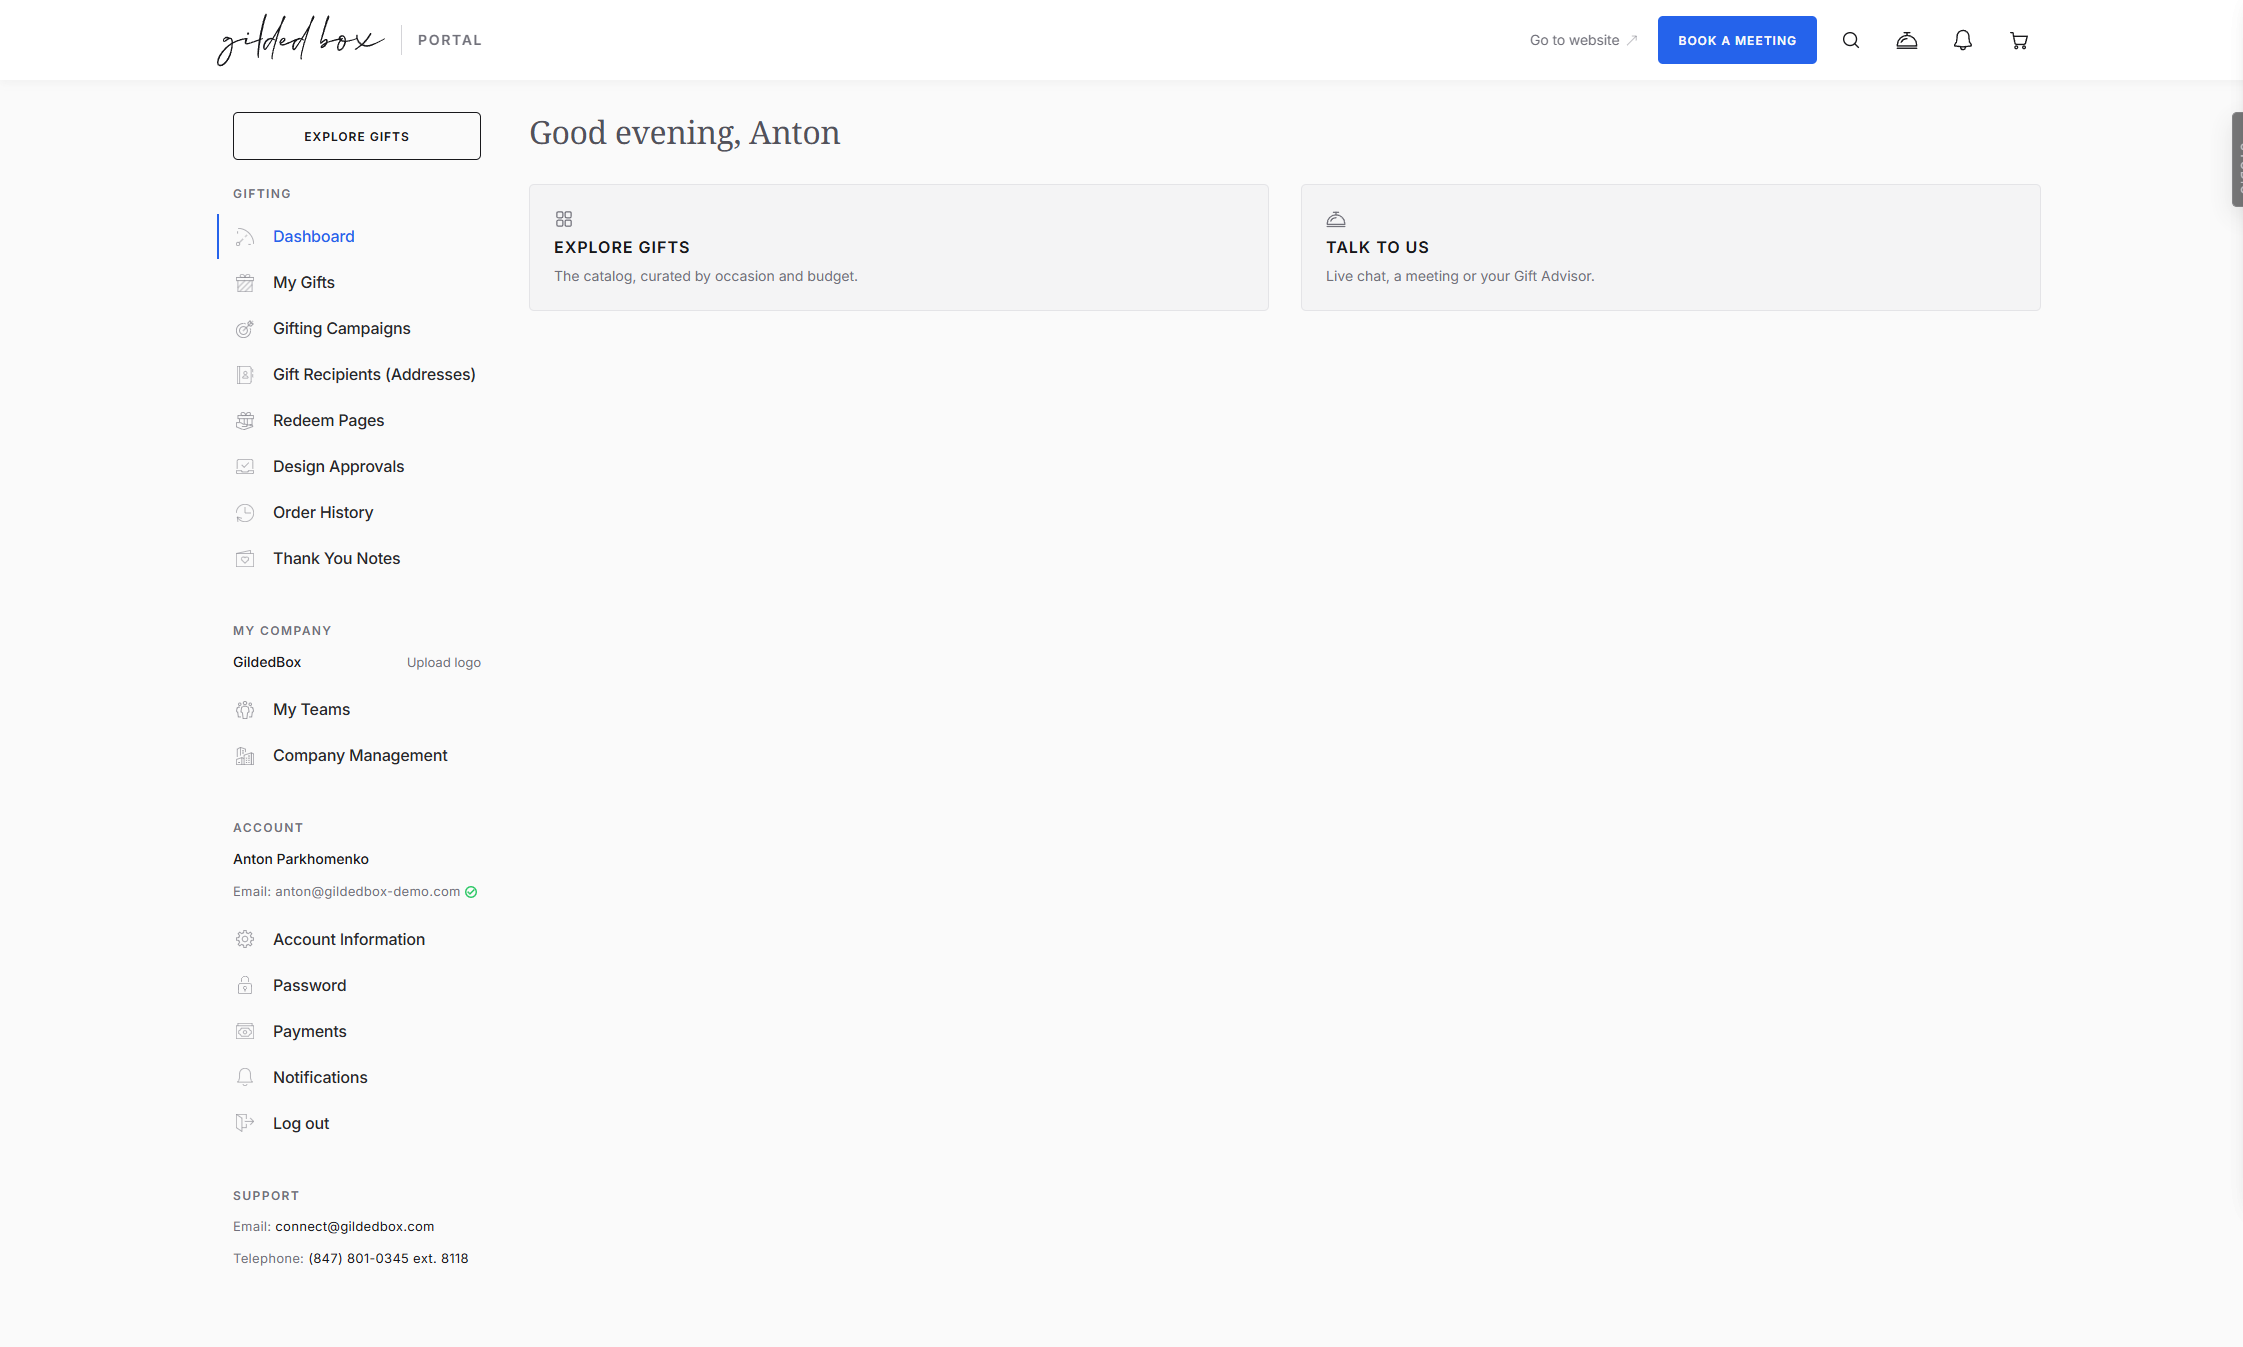
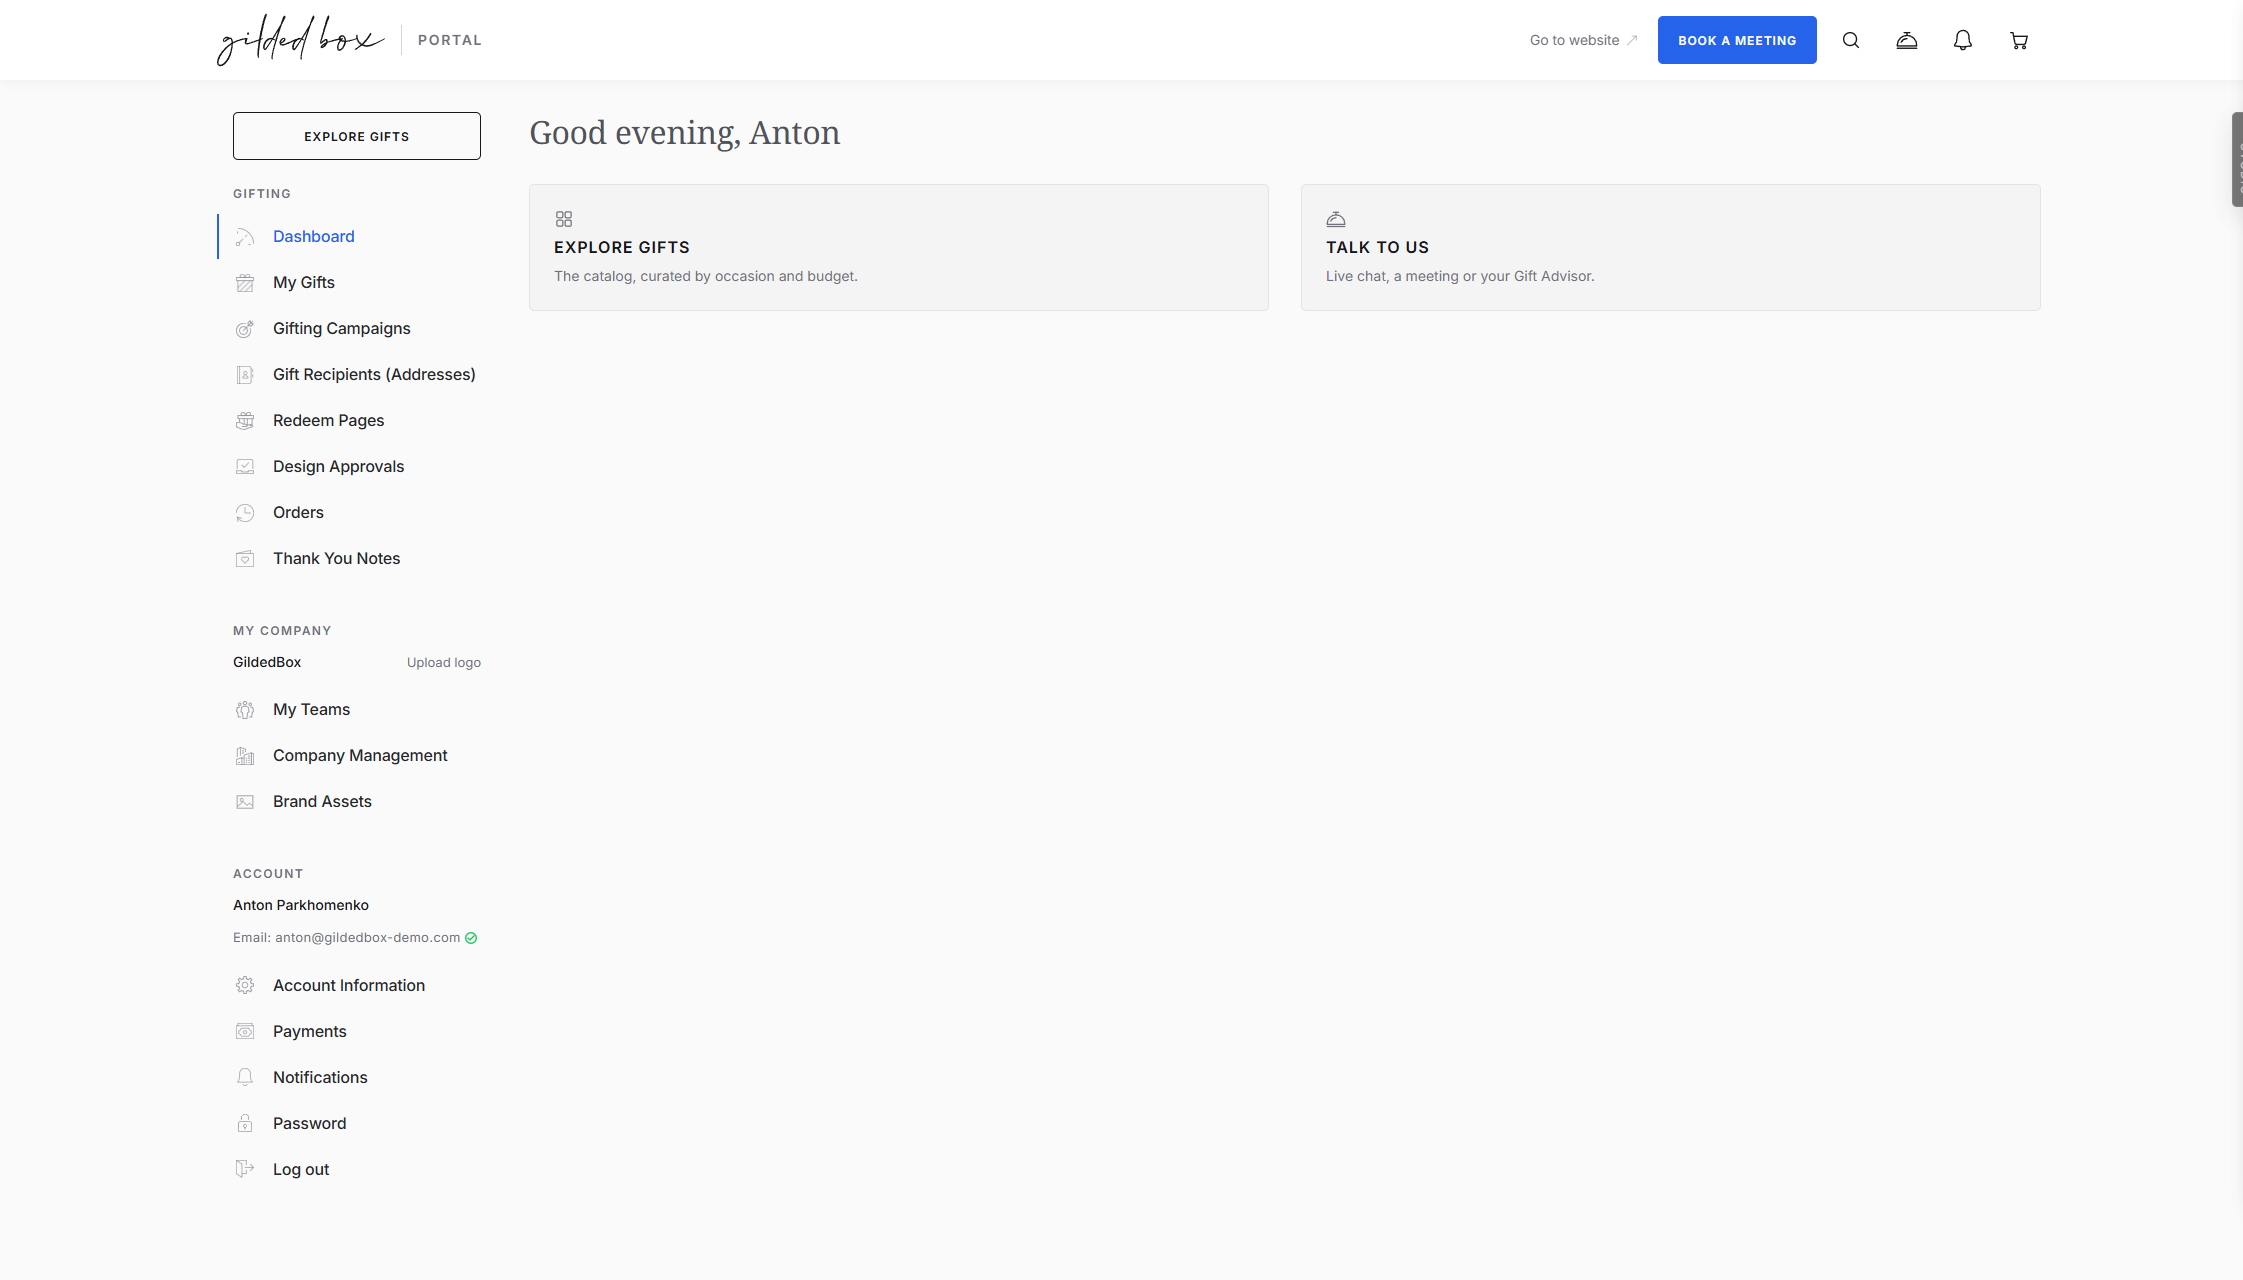
feat(portal): the rail takes its approved shape, and help moves into the widget
The structure Ton signed off, built to the letter.

Explore gifts stays the button at the head. GIFTING: Dashboard, My
Gifts, Gifting Campaigns, Gift Recipients (Addresses), Redeem Pages,
Design Approvals, Orders, Thank You Notes — Orders, not Order
History, and the name is checked against the list on the running
page rather than in the source. MY COMPANY: the company profile with
its Upload logo row, My Teams, Company Management, Brand Assets.
ACCOUNT: the identity, Account Information, Payments, Notifications,
Password, Log out — Payments is personal by his decision, the card
belongs to the person who pays with it.

SUPPORT IS GONE, the group and the footer both: «всё уходит в
виджет». Help lives in the concierge now, reachable from the cloche
in the bar and from the Talk to us door of the Activity block, both
of which open the same drawer with live chat, a meeting and the Gift
Advisor in it. A rail that also printed an address and a phone
number would be a third place to ask for help and the least useful
of the three.

diff --git a/live/portal-dashboard.html b/live/portal-dashboard.html
@@ -1648,7 +1648,7 @@ html[data-gbppd-state="empty"] .gbppd-filled { display: none; }
           <a class="snav-item" href="portal.html"><span class="snav-icon"><img src="../system/icons/address-book.svg" alt=""></span><span class="snav-label">Gift Recipients (Addresses)</span></a>
           <a class="snav-item" href="portal.html"><span class="snav-icon"><img src="../system/icons/gift-exchange.svg" alt=""></span><span class="snav-label">Redeem Pages</span></a>
           <a class="snav-item" href="portal.html"><span class="snav-icon"><img src="../system/icons/laptop-check.svg" alt=""></span><span class="snav-label">Design Approvals</span></a>
-          <a class="snav-item" href="portal.html"><span class="snav-icon"><img src="../system/icons/time-machine.svg" alt=""></span><span class="snav-label">Order History</span></a>
+          <a class="snav-item" href="portal.html"><span class="snav-icon"><img src="../system/icons/time-machine.svg" alt=""></span><span class="snav-label">Orders</span></a>
           <a class="snav-item" href="portal.html"><span class="snav-icon"><img src="../system/icons/love-card.svg" alt=""></span><span class="snav-label">Thank You Notes</span></a>
           </nav>
         </section>
@@ -1661,6 +1661,7 @@ html[data-gbppd-state="empty"] .gbppd-filled { display: none; }
           <nav class="snav-menu">
           <a class="snav-item" href="portal.html"><span class="snav-icon"><img src="../system/icons/crowd-2.svg" alt=""></span><span class="snav-label">My Teams</span></a>
           <a class="snav-item" href="portal.html"><span class="snav-icon"><img src="../system/icons/office.svg" alt=""></span><span class="snav-label">Company Management</span></a>
+          <a class="snav-item" href="portal.html"><span class="snav-icon"><img src="../system/icons/brand-assets.svg" alt=""></span><span class="snav-label">Brand Assets</span></a>
           </nav>
         </section>
 
@@ -1672,20 +1673,22 @@ html[data-gbppd-state="empty"] .gbppd-filled { display: none; }
           </div>
           <nav class="snav-menu">
           <a class="snav-item" href="portal.html"><span class="snav-icon"><img src="../system/icons/cogwheel.svg" alt=""></span><span class="snav-label">Account Information</span></a>
-          <a class="snav-item" href="portal.html"><span class="snav-icon"><img src="../system/icons/lock.svg" alt=""></span><span class="snav-label">Password</span></a>
+          <!-- PAYMENTS IS PERSONAL (Ton, 10.09): the card belongs to the
+               person who pays with it, not to the company block. -->
           <a class="snav-item" href="portal.html"><span class="snav-icon"><img src="../system/icons/money-13.svg" alt=""></span><span class="snav-label">Payments</span></a>
           <a class="snav-item" href="portal.html"><span class="snav-icon"><img src="../system/icons/alarm.svg" alt=""></span><span class="snav-label">Notifications</span></a>
+          <a class="snav-item" href="portal.html"><span class="snav-icon"><img src="../system/icons/lock.svg" alt=""></span><span class="snav-label">Password</span></a>
           <a class="snav-item" href="portal.html"><span class="snav-icon"><img src="../system/icons/leave.svg" alt=""></span><span class="snav-label">Log out</span></a>
           </nav>
         </section>
 
-        <section class="snav-block">
-          <header class="snav-header"><span class="snav-title">Support</span></header>
-          <div class="snav-info">
-            <div class="snav-row"><span class="snav-key">Email:</span><a class="snav-val" href="mailto:connect@gildedbox.com">connect@gildedbox.com</a></div>
-            <div class="snav-row"><span class="snav-key">Telephone:</span><a class="snav-val" href="tel:+18478010345,8118">(847) 801-0345 ext. 8118</a></div>
-          </div>
-        </section>
+        <!-- SUPPORT IS GONE, GROUP AND FOOTER BOTH (Ton, 10.09: «всё
+             уходит в виджет»). Help lives in the concierge now: the
+             cloche in the bar and the Talk to us door of the Activity
+             block, both of which open the same drawer with live chat,
+             a meeting and the Gift Advisor in it. A rail that also
+             printed an address and a phone number would be a third
+             place to ask for help and the least useful of the three. -->
 
       </aside>
 
